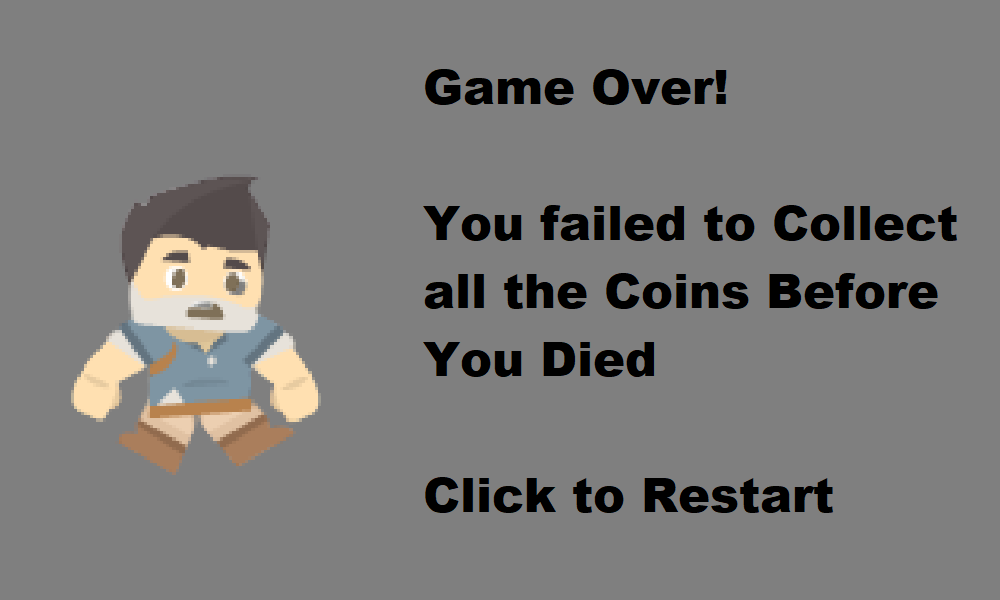
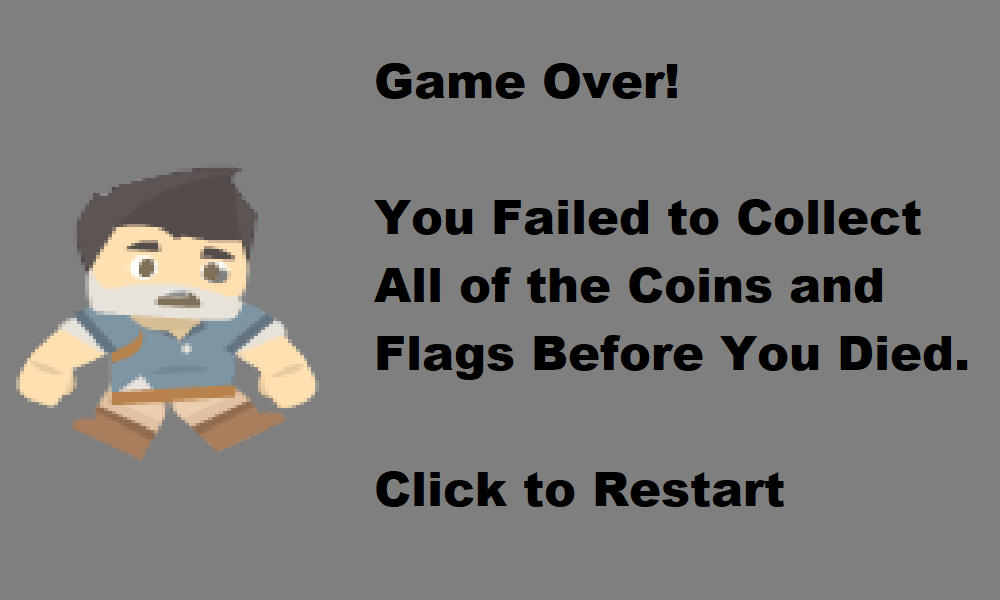
Work on lab 12

diff --git a/Lab 12 - Final Lab/part_12.py b/Lab 12 - Final Lab/part_12.py
@@ -20,7 +20,7 @@ GRID_PIXEL_SIZE = (SPRITE_PIXEL_SIZE * SPRITE_SCALING)
 
 # How many pixels to keep as a minimum margin between the character
 # and the edge of the screen.
-VIEWPORT_MARGIN = SPRITE_PIXEL_SIZE * SPRITE_SCALING
+VIEWPORT_MARGIN = 120
 RIGHT_MARGIN = 4 * SPRITE_PIXEL_SIZE * SPRITE_SCALING
 
 # Physics
@@ -48,11 +48,11 @@ class InstructionView(arcade.View):
         arcade.draw_text("Instructions:", SCREEN_WIDTH/2, SCREEN_HEIGHT/2 + 200,
                          arcade.color.BLACK, font_size=50, anchor_x="center")
         arcade.draw_text("Use the left and right arrow keys to move left or right", SCREEN_WIDTH/2, SCREEN_HEIGHT/2+100,
-                         arcade.color.GRAY, font_size=25, anchor_x="center")
+                         arcade.color.WHITE_SMOKE, font_size=25, anchor_x="center")
         arcade.draw_text("Use the up arrow key to jump", SCREEN_WIDTH / 2,
-                         SCREEN_HEIGHT / 2+50, arcade.color.GRAY, font_size=25, anchor_x="center")
+                         SCREEN_HEIGHT / 2+50, arcade.color.WHITE_SMOKE, font_size=25, anchor_x="center")
         arcade.draw_text("Collect all of the coins without running into the bugs", SCREEN_WIDTH/2, SCREEN_HEIGHT/2,
-                         arcade.color.GRAY, font_size=25, anchor_x="center")
+                         arcade.color.WHITE_SMOKE, font_size=25, anchor_x="center")
         arcade.draw_text("Click to advance", SCREEN_WIDTH/2, SCREEN_HEIGHT/2-75,
                          arcade.color.WHITE, font_size=20, anchor_x="center")
 
@@ -218,7 +218,8 @@ class GameView(arcade.View):
             self.static_wall_list.append(wall)
             self.all_wall_list.append(wall)
 
-        # Create platform side to side
+        """Level 1"""
+        # Create platform side to side level 1
         # Image from kenny.nl: kenny_simplifiedplatformer.zip
         wall = arcade.Sprite("platformPack_tile001.png", SPRITE_SCALING)
         wall.center_y = 3 * GRID_PIXEL_SIZE
@@ -230,7 +231,7 @@ class GameView(arcade.View):
         self.all_wall_list.append(wall)
         self.moving_wall_list.append(wall)
 
-        # Create platform side to side
+        # Create platform side to side level 1
         # Image from kenny.nl: kenny_simplifiedplatformer.zip
         wall = arcade.Sprite("platformPack_tile001.png", SPRITE_SCALING)
         wall.center_y = 3 * GRID_PIXEL_SIZE
@@ -242,7 +243,7 @@ class GameView(arcade.View):
         self.all_wall_list.append(wall)
         self.moving_wall_list.append(wall)
 
-        # Create platform side to side
+        # Create platform side to side Level 1
         # Image from kenny.nl: kenny_simplifiedplatformer.zip
         wall = arcade.Sprite("platformPack_tile001.png", SPRITE_SCALING)
         wall.center_y = 4 * GRID_PIXEL_SIZE
@@ -254,7 +255,7 @@ class GameView(arcade.View):
         self.all_wall_list.append(wall)
         self.moving_wall_list.append(wall)
 
-        # Create platform moving up and down
+        # Create platform moving up and down Level 1
         # Image from kenny.nl: kenny_simplifiedplatformer.zip
         wall = arcade.Sprite("platformPack_tile001.png", SPRITE_SCALING)
         wall.center_y = 5 * GRID_PIXEL_SIZE
@@ -266,7 +267,7 @@ class GameView(arcade.View):
         self.all_wall_list.append(wall)
         self.moving_wall_list.append(wall)
 
-        # Create platform moving up and down
+        # Create platform moving up and down level 1
         # Image from kenny.nl: kenny_simplifiedplatformer.zip
         wall = arcade.Sprite("platformPack_tile001.png", SPRITE_SCALING)
         wall.center_y = 5 * GRID_PIXEL_SIZE
@@ -278,7 +279,7 @@ class GameView(arcade.View):
         self.all_wall_list.append(wall)
         self.moving_wall_list.append(wall)
 
-        # Add Platforms for player to jump on
+        # Add Platforms for player to jump on level 1
         # Image from kenny.nl: kenny_simplifiedplatformer.zip
         # Place boxes inside a loop
         for x in range(1500, 2000, 64):
@@ -292,7 +293,34 @@ class GameView(arcade.View):
             wall.center_y = 375
             self.all_wall_list.append(wall)
 
-        # Enemies for level 1
+        """ Level 2 """
+        # Create platform side to side level 2
+        # Image from kenny.nl: kenny_simplifiedplatformer.zip
+        wall = arcade.Sprite("platformPack_tile002.png", SPRITE_SCALING)
+        wall.center_y = 3 * GRID_PIXEL_SIZE
+        wall.center_x = 4000
+        wall.boundary_left = 3800
+        wall.boundary_right = 4200
+        wall.change_x = 2 * SPRITE_SCALING
+
+        self.all_wall_list.append(wall)
+        self.moving_wall_list.append(wall)
+
+        # Add Platforms for player to jump on level 1
+        # Image from kenny.nl: kenny_simplifiedplatformer.zip
+        # Place boxes inside a loop
+        for x in range(4500, 5000, 64):
+            wall = arcade.Sprite("platformPack_tile002.png", SPRITE_SCALING)
+            wall.center_x = x
+            wall.center_y = 350
+            self.all_wall_list.append(wall)
+        for x in range(6000, 6500, 64):
+            wall = arcade.Sprite("platformPack_tile002.png", SPRITE_SCALING)
+            wall.center_x = x
+            wall.center_y = 375
+            self.all_wall_list.append(wall)
+
+        """Enemies for level 1"""
         # Images from kenny.nl
         # -- Draw an enemy on the ground
         enemy = arcade.Sprite("fly.png", SPRITE_SCALING)
@@ -309,7 +337,7 @@ class GameView(arcade.View):
         enemy.change_x = -2
         self.enemy_list.append(enemy)
 
-        # -- Draw a enemy on the platform
+        # Draw a enemy on the platform
         enemy = arcade.Sprite("bee.png", SPRITE_SCALING)
         enemy.bottom = 390
         enemy.left = 1750
@@ -324,6 +352,39 @@ class GameView(arcade.View):
         enemy.change_x = -3
         enemy.boundary_left = 2750
         enemy.boundary_right = 3225
+        self.enemy_list.append(enemy)
+
+        """Enemies for level 2"""
+        # Images from kenny.nl
+        enemy = arcade.Sprite("snake.png", 0.7)
+        enemy.bottom = 150
+        enemy.left = 4100
+        enemy.change_x = 2
+        enemy.boundary_right = 4600
+        self.enemy_list.append(enemy)
+
+        enemy = arcade.Sprite("rhino.png", 0.7)
+        enemy.bottom = 150
+        enemy.left = 5400
+        enemy.change_x = 2.5
+        enemy.boundary_left = 5200
+        enemy.boundary_right = 5900
+        self.enemy_list.append(enemy)
+
+        enemy = arcade.Sprite("giraffe.png", 0.7)
+        enemy.bottom = 410
+        enemy.left = 4700
+        enemy.change_x = 2
+        enemy.boundary_left = 4500
+        enemy.boundary_right = 5000
+        self.enemy_list.append(enemy)
+
+        enemy = arcade.Sprite("zebra.png", 0.7)
+        enemy.bottom = 410
+        enemy.left = 6250
+        enemy.change_x = 2
+        enemy.boundary_left = 6000
+        enemy.boundary_right = 6500
         self.enemy_list.append(enemy)
 
         # Outer wall image from kenny.nl
@@ -418,11 +479,11 @@ class GameView(arcade.View):
         self.arrow_list.draw()
 
         # Put the score on the screen.
-        output = "Coins Left: " + str(self.coins_left)
+        output = f"Coins Left: {self.coins_left}"
         arcade.draw_text(output, self.view_left, self.view_bottom + 30, arcade.color.WHITE, 14)
-        output = "Flags Left: " + str(self.flags_left)
+        output = f"Flags Left: {self.flags_left}"
         arcade.draw_text(output, self.view_left, self.view_bottom + 15, arcade.color.WHITE, 14)
-        output = "Score: " + str(self.score)
+        output = f"Score: {self.score}"
         arcade.draw_text(output, self.view_left, self.view_bottom, arcade.color.WHITE, 14)
 
     def on_key_press(self, key, modifiers):
